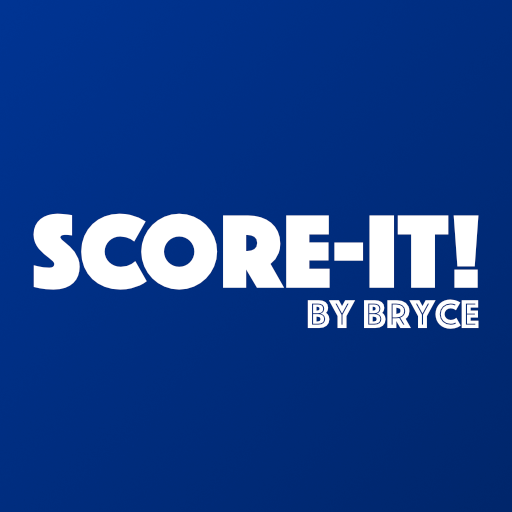
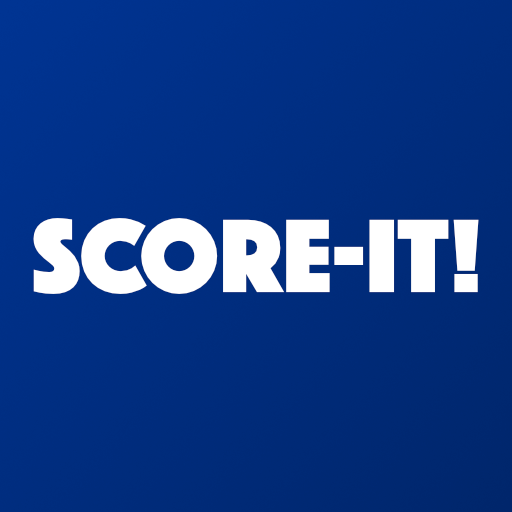
Add files via upload

diff --git a/index.html b/index.html
@@ -3,7 +3,7 @@
 <head>
 <meta charset="utf-8" />
 <meta name="viewport" content="width=device-width,initial-scale=1,viewport-fit=cover" />
-<title>Scorekeeper — PWA</title>
+<title>Score-It!</title>
 
 <link rel="manifest" href="manifest.json">
 <meta name="theme-color" content="#ffffff">
